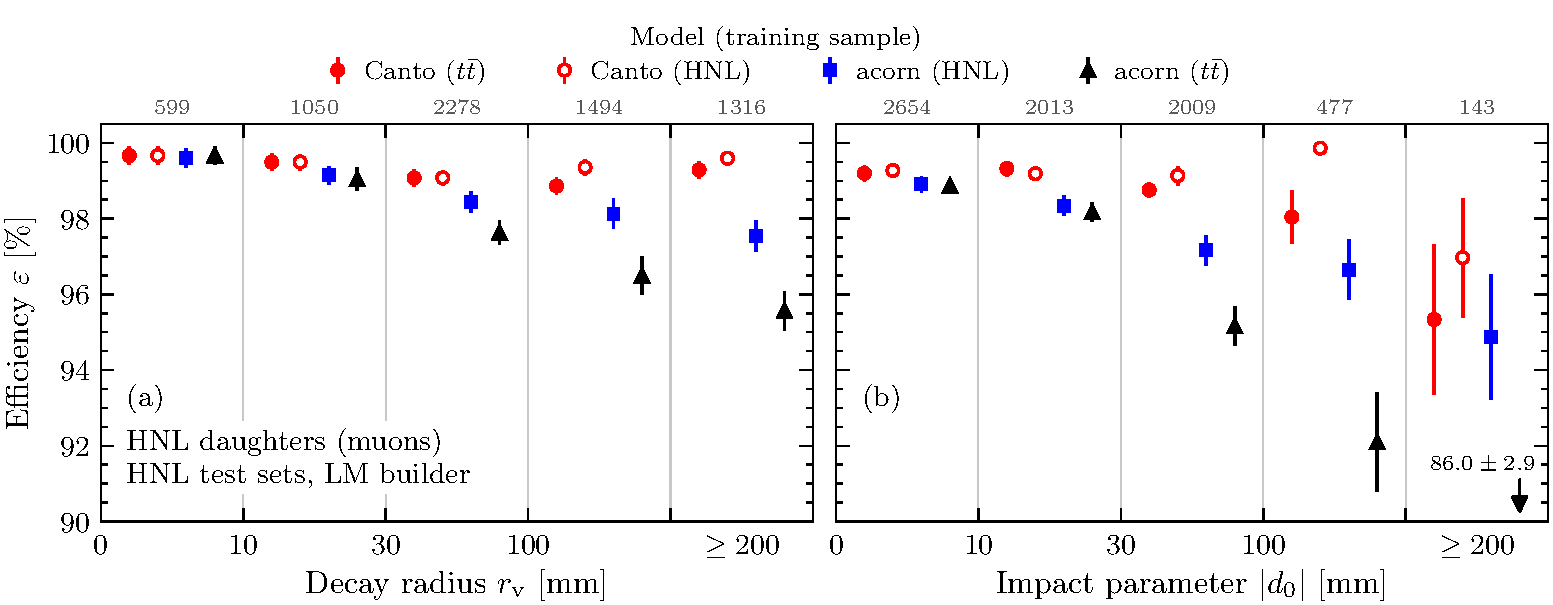
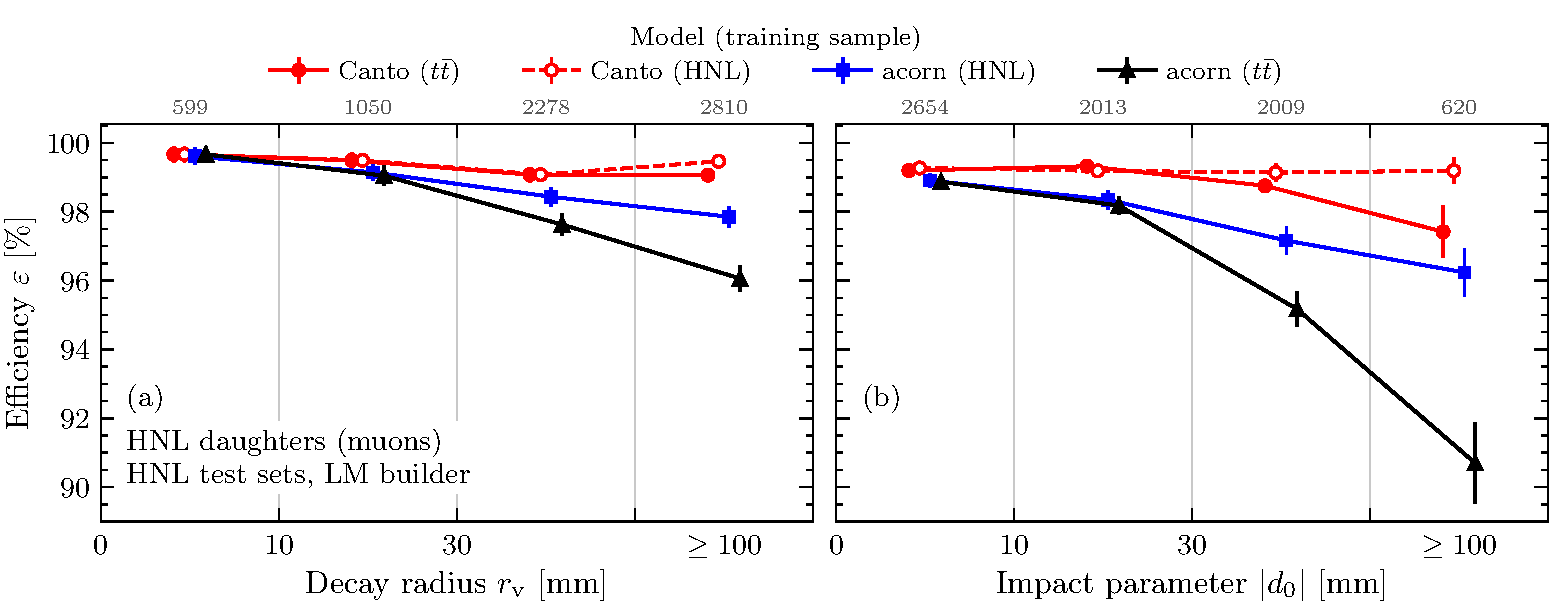
Fig. 5 in four bins per panel, with a last bin from 100 mm on
Adds the efficiencies in these bins (results/fig5_rebin_v2.csv), their
paired differences and the drawn points, and replaces the PNG file of
Fig. 5. README: the bins of Fig. 5 against those of the preregistration.

diff --git a/README.md b/README.md
@@ -31,8 +31,8 @@ HNL samples. CC is the connected-components track builder, and LM is the builder
 same-layer repulsion, followed by learned merging of track fragments). The standard tracker is acorn (ttbar) with
 CC. The cut rule and the limit on the fake rate are defined in the paper and in `docs/preregistration.md`.
 
-The benchmark has no pileup, a fast detector simulation and a uniform magnetic field. It holds 143 HNL daughters
-with |d0| >= 200 mm in the test sets, and for these the lead of Canto over acorn (HNL) with LM is not established.
+The benchmark has no pileup, a fast detector simulation and a uniform magnetic field. It holds 620 HNL daughters
+with |d0| >= 100 mm in the test sets, and for these the lead of Canto over acorn (HNL) with LM is not established.
 
 ## Layout
 
@@ -158,9 +158,10 @@ The reported analysis and the preregistration differ in these points:
 - The comparisons fixed in advance name CC only. The rows of the tables with CC+walk or LM as the builder of the
   acorn models are not among them, and `results/strong_baselines_v3.csv` marks the working points that were
   evaluated after the freeze on the stored test scores ("post-freeze").
-- Fig. 5 of the paper is drawn in five bins per panel, with a last bin from 200 mm on
-  (`results/fig5_rebin_v1.csv`). These bins are coarser than those of Section 2 of the preregistration, and the edge
-  at |d0| = 200 mm is not among them. `results/test_binned_v1.csv` holds the bins of Section 2.
+- Fig. 5 of the paper is drawn in four bins per panel, with a last bin from 100 mm on
+  (`results/fig5_rebin_v2.csv`, binnings `rv_4` and `d0_4`). These bins are coarser than those of Section 2 of the
+  preregistration. `results/test_binned_v1.csv` holds the bins of Section 2, and `results/fig5_rebin_v1.csv` holds
+  an intermediate choice with a last bin from 200 mm on, which the paper does not use.
 - Section 7 of the preregistration states that every final model is evaluated on each test set once. This snapshot
   does not document the uses of the test sets.
 

diff --git a/results/README.md b/results/README.md
@@ -13,7 +13,7 @@ an unedited copy of an output of that analysis.
 | Fig. 2 (displacement of the targets) | the histograms in `sample_truth_v1_hist.csv`, the counts and the quoted fractions in `sample_truth_v1.md` |
 | Fig. 3 (losses of the standard tracker, truncation probe) | the drawn points in `figures/fig03_bars.csv`; the losses and the probe quoted with it in `paper1_headroom_val_v1_losses.csv` and `probe_dense_v1.csv` |
 | Fig. 4 (diagram of the pipeline) | no file here |
-| Fig. 5 (efficiency in the HNL test sets) | the drawn points in `figures/fig05_rv_d0_rebinned.csv`, read from `fig5_rebin_v1.csv` (five bins per panel; paired differences in `fig5_rebin_v1_differences.csv`). The same efficiencies in the finer bins of `../docs/preregistration.md` are in `test_binned_v1.md` and `figures/fig08_test_rv_pts.csv` |
+| Fig. 5 (efficiency in the HNL test sets) | the drawn points in `figures/fig05_rv_d0_ge100_lines.csv`, read from `fig5_rebin_v2.csv` (four bins per panel, binnings `rv_4` and `d0_4`; paired differences in `fig5_rebin_v2_differences.csv`). The same efficiencies in the finer bins of `../docs/preregistration.md` are in `test_binned_v1.md` and `figures/fig08_test_rv_pts.csv`. `fig5_rebin_v1.csv`, `fig5_rebin_v1_differences.csv` and `figures/fig05_rv_d0_rebinned.csv` hold five bins per panel and are not used in the paper |
 
 Other numbers of the text are read from `working_points_v1.json` (the fake-rate limit FR* and the reference cut),
 `ceiling_table2_v1.md` (the graph ceilings), `strong_baselines_v3.csv` (the efficiencies quoted in the abstract) and
